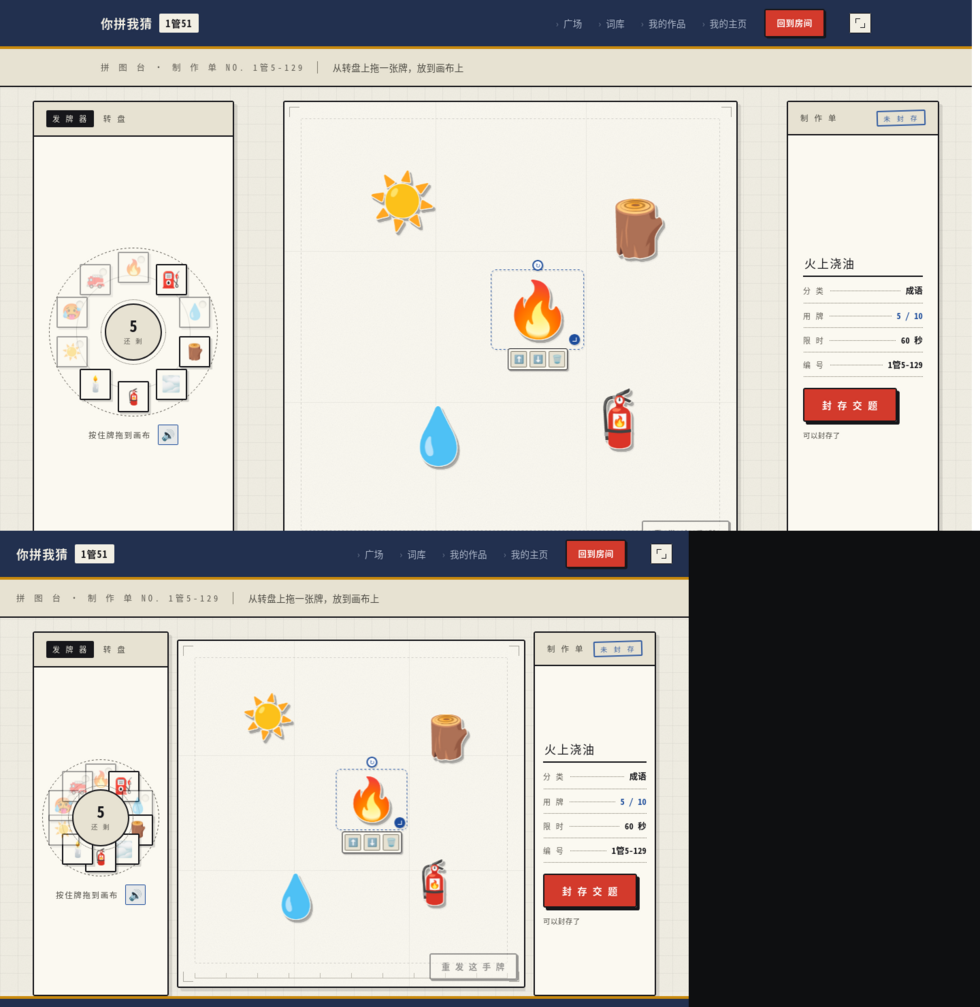
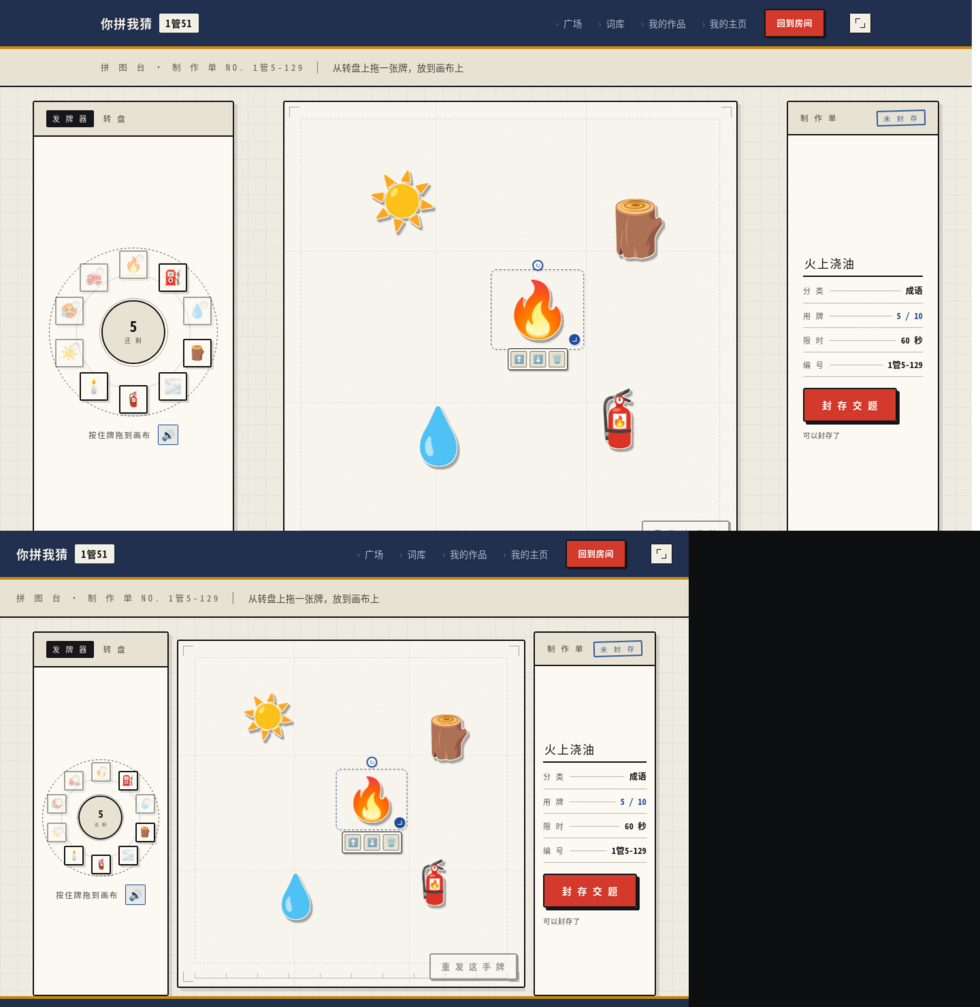
K3 第 9 轮 8.5/10；修 1024 转盘事故（两层根因都不是肉眼能看出来的）
评委第 9 轮给 8.5（上轮 8，+0.5），并说：
> 不到 9。我上一轮说「做到 1+2+3 就是 9」—— 1 做到了，2 做到了八成，
> 3 只做到了一半。**按自己的承诺执行，不能给 9。**

它逐像素核实了 emoji 上纸：
> 「太阳、木头、水滴、灭火器、火焰，每一个都带白色模切贴纸边 + 统一向右下方的投影。
>  画布本身是制图垫…… emoji 不『悬浮』了。**这是本轮最大的一笔进步，结论不再保留。**」

## 它抓到一处我引入的真 bug

> **1024 档转盘事故：牌与牌互相叠压、牌压进中心「5 还剩」圆盘。**
> **这是本轮唯一一处「坏了」而非「空着」的问题。**

我收窄轨道时把它弄坏的。查下去有**两层根因，都不是肉眼能看出来的**：

**① CSS 自定义属性的遮蔽。**
```
.spoke{--tile:46px; width:var(--tile)}   ← 牌自己声明了 --tile
JS 在 .wheel 上设 --tile:29px             ← 被遮蔽，传不下来
```
自定义属性会继承，而元素**自身的声明会遮蔽祖先传来的值**。于是牌永远是 46px，
我只缩半径完全没用。改用 `var(--tile,46px)` 的 fallback 表达默认值。

**② 中心圆盘尺寸写死。**
`.wheel .hub{width:84px}` —— 1024 下转盘只有 172px，84px 的圆盘（含 ::after 外扩）
半径 50.5 占半宽的 59%，**牌放哪都会压上去**。改成 `width:38%;height:38%`，
内部字号也跟着 `--R` 缩放。

改完后四个宽度实测：牌间重叠 0.0px、压中心盘 0 张、溢出 0 张。

## 顺带：把转盘不变量也做成断言

这两条都属于「量了数值但没量关系」，所以在浏览器里直接断言：
牌两两不重叠 / 不压中心圆盘 / 不溢出转盘。四个视口各跑一遍。

做了变异测试：把 `--tile` 的 fallback 写回硬值 → **1024 立刻红**；还原 → 绿。

**这类回归只能靠断言抓。** 我改完看了 1440 的截图，是干净的；
1024 坏了，而我没看那一档。

## 还差（评委的第 3 条剩一半 + 第 4、5 条）

- 拼图台右栏下半 ~115px 空带、「可以封存了」以下全空
- 信息流卡片右半约 45% 是空地
- 贴纸光泽度不统一（太阳有高光、木头全平）
- 缩略图尺寸下贴纸边几乎消失

Changed region(s): [[0.0612, 0.2463, 0.2143, 0.431], [0.0306, 0.7388, 0.1837, 0.8928]]

diff --git a/app/compose.html b/app/compose.html
@@ -52,8 +52,18 @@
    而这里的牌就是圆的 —— 设计系统里唯一一条被写下来的禁令，
    被它自己的核心物件违反了。而且 23px 的 emoji 装不进 46px 的圆，
    消防车、灭火器都溢出环外，那个圆读作「盖在 emoji 上的镜片」。 */
-.spoke{position:absolute;top:50%;left:50%;width:46px;height:46px;margin:-23px;
-  display:grid;place-items:center;font-family:var(--emoji);font-size:23px;line-height:1;
+/* ⚠ 牌的尺寸不能写死 46px。
+   我第一版只让 --R（半径）随宽度缩，牌保持 46px —— 1024 下半径约 61px，
+   圆周 383px 而十张牌需要 460px，于是**牌互相叠压、压进中心圆盘**。
+   （K3：「这是本轮唯一一处『坏了』而非『空着』的问题。」）
+   现在牌尺寸也走令牌 --tile，由 JS 按转盘宽度算，与半径成同一比例。 */
+.spoke{position:absolute;top:50%;left:50%;
+  /* ⚠ 不能在这里写 --tile:46px —— 自定义属性会继承，而元素自身的声明
+     会**遮蔽**祖先传来的值。JS 在 .wheel 上设的 --tile 就传不进来了，
+     牌永远是 46px，窄窗照样叠压。用 var() 的 fallback 表达默认值。 */
+  width:var(--tile,46px);height:var(--tile,46px);margin:calc(var(--tile,46px) / -2);
+  display:grid;place-items:center;font-family:var(--emoji);
+  font-size:calc(var(--tile,46px) * .5);line-height:1;
   background:var(--paper-4);border:2px solid var(--ink);border-radius:2px;
   box-shadow:3px 3px 0 rgba(23,23,27,.16);cursor:grab;padding:0;touch-action:none;
   /* 半径由 JS 按转盘实际宽度写进 --R —— 写死 -104px 时，
@@ -69,11 +79,14 @@
 .spoke.used:hover{box-shadow:3px 3px 0 rgba(23,23,27,.16)}
 
 .wheel .hub{position:absolute;top:50%;left:50%;transform:translate(-50%,-50%);
-  width:84px;height:84px;border-radius:50%;background:var(--paper-2);border:2px solid var(--ink);
+  /* ⚠ 尺寸不能写死。1024 下转盘只有 172px，而写死的圆盘半径 50.5px
+     占了半宽的 59%，牌无论放哪都会压上去（实测 4 张）。
+     改用转盘宽度的百分比：满尺寸 268px 时 38% ≈ 102px，与原设计接近。 */
+  width:38%;height:38%;border-radius:50%;background:var(--paper-2);border:2px solid var(--ink);
   display:grid;place-items:center;z-index:4;text-align:center;padding:6px}
-.wheel .hub::after{content:"";position:absolute;inset:-8px;border:1.5px dotted var(--ink-3);border-radius:50%}
-.wheel .hub .n{font-family:var(--mono);font-weight:700;font-size:23px;line-height:1}
-.wheel .hub .k{font-family:var(--mono);font-size:9.5px;letter-spacing:.14em;color:var(--ink-3);margin-top:3px}
+.wheel .hub::after{content:"";position:absolute;inset:-6%;border:1.5px dotted var(--ink-3);border-radius:50%}
+.wheel .hub .n{font-family:var(--mono);font-weight:700;font-size:calc(var(--R,104px) * .22);line-height:1}
+.wheel .hub .k{font-family:var(--mono);font-size:calc(var(--R,104px) * .09);letter-spacing:.14em;color:var(--ink-3);margin-top:3px}
 .wheel-note{margin-top:12px;display:flex;gap:10px;justify-content:center;align-items:center}
 
 /* ---------- 画板 ---------- */
@@ -455,8 +468,23 @@ const ANGS=Array.from({length:10},(_,i)=>i*36);
 function syncSpokeRadius(){
   const w=document.querySelector(".wheel"); if(!w) return;
   const half=w.getBoundingClientRect().width/2;
-  const R=Math.max(52, Math.round(half-23-6));
+  // 牌尺寸 = 转盘半宽的 34%（满尺寸时 134×.34 ≈ 46，与原设计一致）
+  const tile=Math.max(24, Math.round(half*0.34));
+  // 半径要同时满足两个约束：
+  //   上限 —— 牌完整落在转盘内：half − 半个牌 − 4
+  //   下限 —— 牌不压中心圆盘：中心圆盘半径（含 ::after 的 8px 外扩）+ 半个牌 + 3
+  // 只写下限时 1024 下会有 4 张牌压进「10 还剩」那个圆盘里。
+  const hub=w.querySelector(".hub");
+  const hubR=hub ? hub.getBoundingClientRect().width/2 + 8 : 0;
+  const hi=Math.round(half - tile/2 - 4);
+  const lo=Math.round(hubR + tile/2 + 3);
+  const R=Math.max(30, Math.min(hi, Math.max(lo, hi)));
+  w.dataset.rLo = lo; w.dataset.rHi = hi;
+  w.style.setProperty("--tile", tile+"px");
   w.style.setProperty("--R", R+"px");
+  // 十张牌在半径 R 的圆周上需要的弧长是 10×tile；不够就报告出来，别让它悄悄重叠。
+  const need=10*tile, have=2*Math.PI*R;
+  w.dataset.fit = need<=have ? "ok" : "tight";
 }
 addEventListener("resize",syncSpokeRadius);
 if(window.ResizeObserver) new ResizeObserver(syncSpokeRadius).observe(document.documentElement);

diff --git a/tools/canvas_invariants.py b/tools/canvas_invariants.py
@@ -118,12 +118,72 @@ def main():
             ok, why = check(page, w, h)
             if not ok:
                 bad.append(f"{page} {w}x{h}: {why}")
+    # 转盘：牌不重叠 / 不压中心盘 / 不溢出
+    for w, h in VIEWPORTS:
+        if not check_wheel("compose.html", w, h):
+            bad.append(f"compose.html {w}x{h}: 转盘不变量不通过（牌重叠或压到中心圆盘）")
     for b in bad:
         print("     " + b)
     if not bad:
         print(f"  \033[32m✓\033[0m 画布不变量：{len(PAGES)} 页 × {len(VIEWPORTS)} 视口全部通过"
-              f"（不滚 / 无横向溢出 / 无裁切 / 画布正方 / 按钮在画布内）")
+              f"（不滚 / 无横向溢出 / 无裁切 / 画布正方 / 按钮在画布内 / 转盘不重叠）")
     return 1 if bad else 0
+
+
+
+
+# ── 转盘不变量 ──────────────────────────────────────────────
+# K3 第 9 轮抓到的回归：「1024 档转盘事故：牌与牌互相叠压、牌压进中心圆盘。
+# 这是本轮唯一一处『坏了』而非『空着』的问题。」
+# 根因有两层，都不是肉眼能看出来的：
+#   ① .spoke 里写了 `--tile:46px`，**遮蔽**了 JS 在 .wheel 上设的继承值，
+#      于是牌永远是 46px，缩了半径也没用。
+#   ② .wheel .hub 尺寸写死 84px，1024 下占转盘半宽的 59%，牌放哪都会压上去。
+# 这两条都属于「量了数值但没量关系」，所以在浏览器里直接断言关系。
+WHEEL_PROBE = r'''<script>
+(function(){
+  var fails=[], w=document.querySelector(".wheel");
+  if(!w){ document.body.innerHTML="<pre style='background:#F00;color:#fff'>找不到 .wheel</pre>"; return; }
+  var sp=[].slice.call(document.querySelectorAll(".spoke"));
+  var rects=sp.map(function(s){return s.getBoundingClientRect();});
+  var worst=0;
+  for(var i=0;i<rects.length;i++)for(var j=i+1;j<rects.length;j++){
+    var a=rects[i],b=rects[j];
+    var ox=Math.min(a.right,b.right)-Math.max(a.left,b.left);
+    var oy=Math.min(a.bottom,b.bottom)-Math.max(a.top,b.top);
+    if(ox>0&&oy>0) worst=Math.max(worst,Math.min(ox,oy));
+  }
+  if(worst>1.5) fails.push("牌间重叠 "+worst.toFixed(1)+"px");
+  var hub=document.querySelector(".wheel .hub");
+  if(hub){var h=hub.getBoundingClientRect();
+    var hit=rects.filter(function(r){return r.left<h.right&&r.right>h.left&&r.top<h.bottom&&r.bottom>h.top;}).length;
+    if(hit) fails.push(hit+" 张牌压到中心圆盘");}
+  var wr=w.getBoundingClientRect();
+  var out=rects.filter(function(r){return r.left<wr.left||r.right>wr.right||r.top<wr.top||r.bottom>wr.bottom;}).length;
+  if(out) fails.push(out+" 张牌溢出转盘");
+  var d=document.createElement("div");
+  d.style.cssText="position:fixed;inset:0;z-index:2147483647;background:"+(fails.length?"#FF0000":"#00CC00");
+  document.body.appendChild(d);
+})();
+</script>
+</body>'''
+
+
+def check_wheel(page, w, h):
+    (WORK / "home").mkdir(parents=True, exist_ok=True)
+    q = WORK / "app" / page
+    q.write_text((APP / page).read_text(encoding="utf-8").replace("</body>", WHEEL_PROBE, 1),
+                 encoding="utf-8")
+    shot = WORK / "shots" / f"wheel_{w}x{h}.png"
+    shot.unlink(missing_ok=True)
+    subprocess.run([FF, "--headless", "--no-remote", f"--window-size={w},{h}",
+                    "--screenshot", str(shot), f"file://{q}"],
+                   env={**os.environ, "HOME": str(WORK / "home")},
+                   capture_output=True, timeout=120)
+    if not shot.exists(): return False
+    r = subprocess.run(["convert", str(shot), "-format", f"%[pixel:p{{{w//2},{h//2}}}]", "info:"],
+                       capture_output=True, text=True)
+    return "0,204,0" in r.stdout.lower()
 
 
 if __name__ == "__main__":
